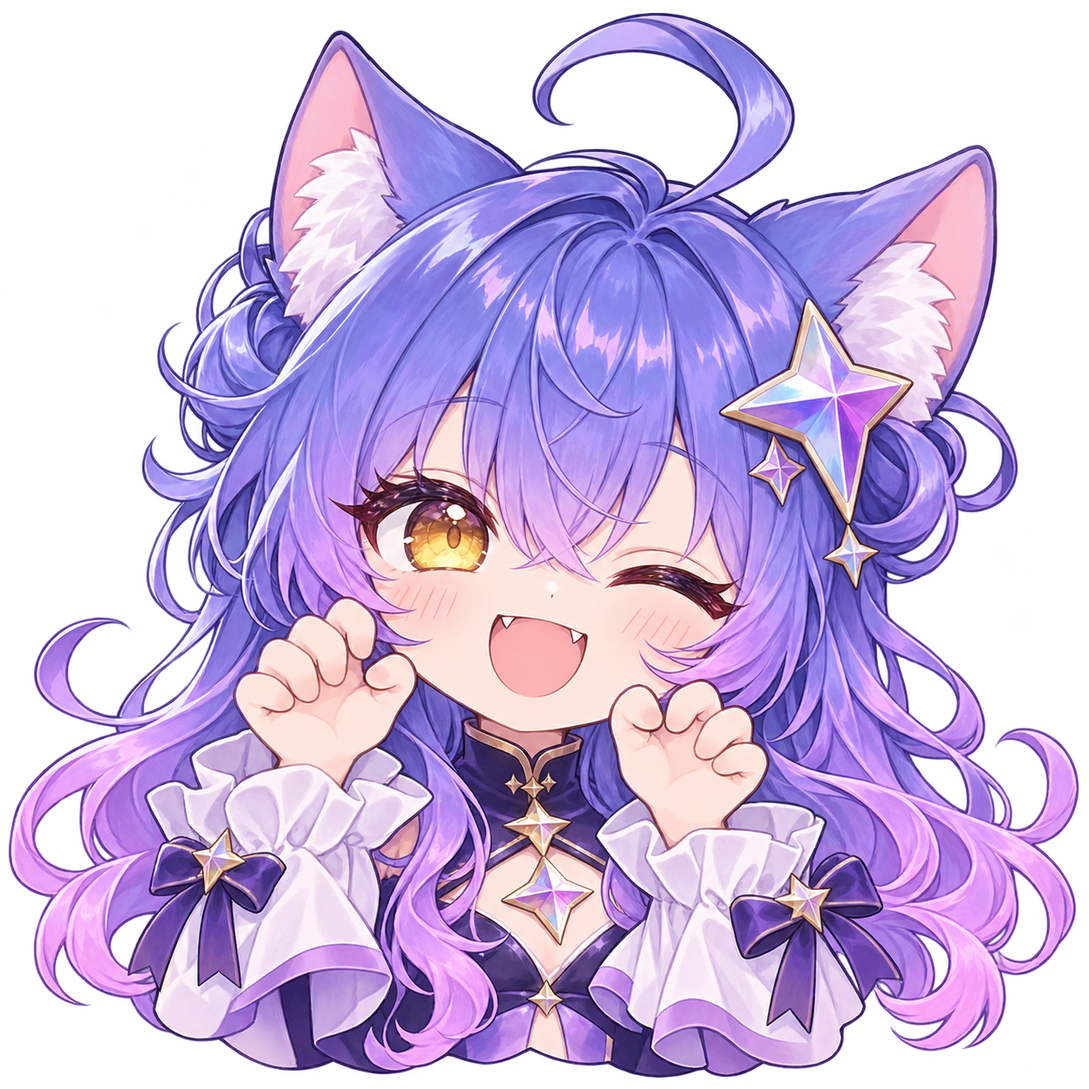
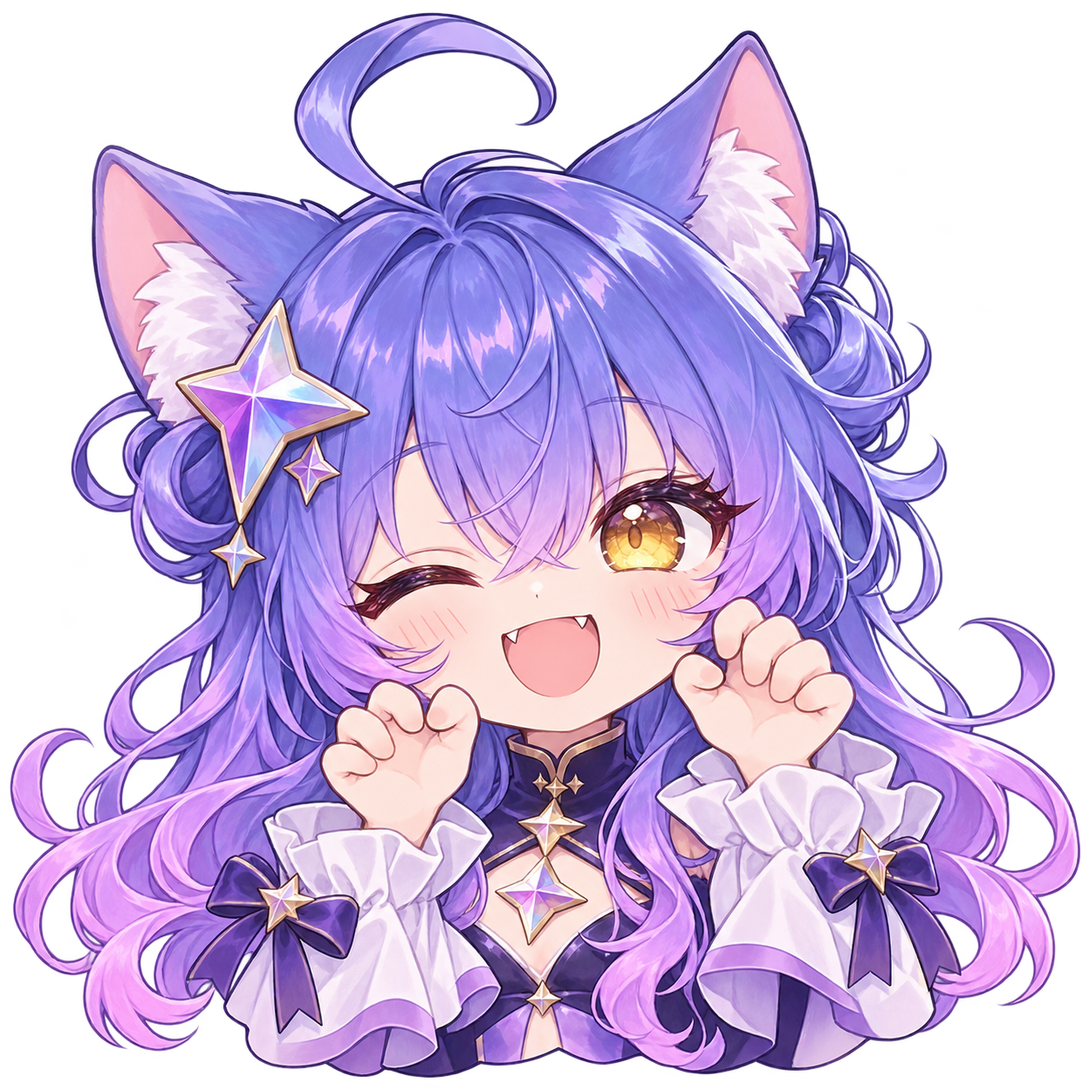
feat(T026): 优化 Gemini 界面排版、角色舞台与形象对称方向

diff --git a/src/renderer/settings.ts b/src/renderer/settings.ts
@@ -6,7 +6,7 @@ import type { AppSettings, AppState, DesktopApi, PetPersona, SoundSlot, Completi
 import { validatePhraseDisplays } from '../shared/phrases';
 import { decimalSetting, money, updateMoney } from './format';
 import { localTime, quotaStatus, renderQuota } from './quota';
-import { geminiStatus, renderGeminiQuota } from './gemini-quota';
+import { geminiStatus, geminiStatusChip, renderGeminiQuota } from './gemini-quota';
 import { COMPLETION_SOURCES, petPersona } from '../shared/bubble-settings';
 import { APP_VERSION, GEMINI_PETS, GPT_DRAGON_PET, GPT_PET } from '../shared/defaults';
 import { PersonaSoundPlayer } from './sounds';
@@ -47,7 +47,7 @@ export function mountSettings(root: HTMLElement, api: DesktopApi, initial: AppSt
         <form id="settings-form">
           <section id="appearance" class="section"><div class="section-heading"><h2>角色造型</h2><span class="section-note">切换角色与图片立即生效</span></div>
             <div class="panel"><div class="pet-selector" role="group" aria-label="切换内置桌宠"><button id="select-deepseek" type="button" class="pet-option" aria-pressed="false"><img src="./assets/whale.png" alt=""><span>DeepSeek 小鲸鱼<small>账户余额与消费</small></span></button><button id="select-gpt" type="button" class="pet-option" aria-pressed="false"><img src="./assets/gpt.png" alt=""><span>GPT 小伙伴<small>Codex 额度与重置时间</small></span></button><button id="select-gemini" type="button" class="pet-option" aria-pressed="false"><img src="${GEMINI_PETS.classic.url}" alt=""><span>Gemini<small>Argon 与 Gemini 剩余额度</small></span></button></div>
-            <div id="gemini-appearance-options" hidden><div class="pet-selector" role="group" aria-label="Gemini 造型">${(['classic', 'sketch'] as const).map(id => `<button id="gemini-${id}" type="button" class="pet-option"><img src="${GEMINI_PETS[id].url}" alt=""><span>${id === 'classic' ? '经典' : '手绘'}</span></button>`).join('')}</div></div>
+            <div id="gemini-appearance-options" hidden><p class="hint">两种 Gemini 造型共用同一份额度、陪伴短句、音效与气泡设置。</p><div class="pet-selector" role="group" aria-label="Gemini 造型">${(['classic', 'sketch'] as const).map(id => `<button id="gemini-${id}" type="button" class="pet-option" aria-pressed="false"><img src="${GEMINI_PETS[id].url}" alt=""><span>${id === 'classic' ? '经典<small>星光紫经典造型</small>' : '手绘<small>彩铅手绘风造型</small>'}</span></button>`).join('')}</div></div>
             <div id="gpt-appearance-options"><p class="hint">GPT 造型切换不影响 Codex 额度，两种内置造型共用同一份额度。</p><div class="pet-selector" role="group" aria-label="GPT 造型"><button id="appearance-classic" type="button" class="pet-option" aria-pressed="false"><img src="${GPT_PET.url}" alt=""><span>原版 GPT<small>薄荷绿小伙伴</small></span></button><button id="appearance-dragon" type="button" class="pet-option" aria-pressed="false"><img src="${GPT_DRAGON_PET.url}" alt=""><span>GPT 白龙<small>淡紫色小伙伴</small></span></button><button id="appearance-custom" type="button" class="pet-option" aria-pressed="false"><span>自定义图片<small>保留已导入的造型</small></span></button></div></div>
             <div class="pet-preview-row"><div class="pet-preview"><img id="pet-preview-image" alt="当前桌宠角色"></div><div><h3 id="pet-name"></h3><p>点击桌宠查看余额或剩余额度，拖动它换个位置。<br>右键打开快捷菜单。</p><div class="button-row"><button id="choose-pet" type="button" class="secondary-button">换一张图片</button><button id="reset-pet" type="button" class="text-button">恢复当前角色</button></div></div></div>
             <div class="setting-row"><label for="pet-mode">桌宠模式<small>所有桌宠共用；保存后生效。简洁模式只保留剩余额度、完成及问答提醒，原设置仍保留。</small></label><select id="pet-mode" name="petMode" form="settings-form"><option value="full">完整模式</option><option value="simple">简洁模式</option></select></div><div class="setting-row"><label for="scale">角色大小<small>屏幕空间不足时自动缩小，保留所选比例</small></label><div class="range-control"><input id="scale" name="scale" type="range" min="0.5" max="2" step="0.05"><output id="scale-output" for="scale"></output></div></div>
@@ -94,7 +94,8 @@ export function mountSettings(root: HTMLElement, api: DesktopApi, initial: AppSt
     const section = document.createElement('section'); section.id = id; section.className = 'section'; section.innerHTML = `<div class="section-heading"><h2>${title}</h2></div><div class="panel">${html}</div>`; content.append(section); return section;
   };
   for (const id of ['overview', 'codex', 'appearance', 'reminders', 'records']) content.append(element(id));
-  makePage('gemini', 'Gemini 剩余额度', '<div id="gemini-quotas"></div><div class="codex-actions"><p id="gemini-status" class="hint" role="status"></p><button id="refresh-gemini" class="secondary-button" type="button">刷新额度</button></div>');
+  const geminiSection = makePage('gemini', 'Gemini 剩余额度', '<div id="gemini-quotas"></div><div class="codex-actions"><p id="gemini-status" class="hint" role="status"></p><div class="button-row"><button id="refresh-gemini" class="secondary-button" type="button">↻ 刷新额度</button></div></div><p class="hint">优先读取本机运行中的 Antigravity 实时额度；客户端关闭时回退到已登录的 agy CLI。</p>');
+  geminiSection.querySelector('.section-heading')!.insertAdjacentHTML('beforeend', '<span id="gemini-status-chip" class="status-chip"></span>');
   const behavior = makePage('behavior', '桌面行为', '<p class="page-description">让小伙伴按你的习惯，留在桌面上。</p>');
   const sound = makePage('sound', '声音', '<p class="page-description">给每次轻轻按下，留一点回应。</p>');
   makePage('bubbles', '气泡与提示', '<div id="bubble-editor"></div>');
@@ -127,10 +128,10 @@ export function mountSettings(root: HTMLElement, api: DesktopApi, initial: AppSt
     return nodes;
   };
   const geminiControls = document.createElement('div');
-  geminiControls.innerHTML = `<label class="toggle-label"><span>完成时提醒</span><input name="geminiCompletionEnabled" type="checkbox"></label>
-    <label class="toggle-label"><span>需要回应时提醒</span><input name="attention-antigravity" type="checkbox"></label>
-    <label class="toggle-label"><span>接入 Antigravity 完成 hook</span><input name="geminiHookEnabled" type="checkbox"></label>
-    <p id="gemini-integration-status" class="hint" role="status"></p><p class="hint">保存后生效。启用完成 hook 后请在 Antigravity 中重新加载会话；关闭接入会移除 DesktopPet 的条目。</p>
+  geminiControls.innerHTML = `<label class="toggle-label"><span>需要回应时提醒</span><input name="attention-antigravity" type="checkbox"></label>
+    <label class="toggle-label"><span>完成时提醒</span><input name="geminiCompletionEnabled" type="checkbox"></label>
+    <label class="toggle-label"><span>接入 Antigravity 完成 hook<small>保存后写入全局 hooks.json；关闭接入只移除 DesktopPet 的条目。</small></span><input name="geminiHookEnabled" type="checkbox"></label>
+    <p id="gemini-integration-status" class="hint" role="status"></p><p class="hint">等待回应只读扫描本机会话摘要；启用完成 hook 后请在 Antigravity 中重新加载会话。</p>
     <button type="button" class="text-button" data-edit-completion="antigravity">编辑提示</button>`;
   const integrations = [
     { source: 'antigravity', title: 'Gemini · Antigravity', description: '桌面 App、IDE 和 agy CLI', nodes: [...geminiControls.children] },
@@ -176,10 +177,10 @@ export function mountSettings(root: HTMLElement, api: DesktopApi, initial: AppSt
   sound.querySelector('.panel')!.insertAdjacentHTML('beforeend', '<div class="related-settings"><h3>对话完成音效</h3><p>每个应用的完成音效可独立开关、调节音量和更换音频。</p><div class="button-row"><button type="button" class="secondary-button" data-edit-sound="codex">Codex 音效 ↗</button><button type="button" class="secondary-button" data-edit-sound="chatgpt-work">Work 音效 ↗</button><button type="button" class="secondary-button" data-edit-sound="deepseek-harness">DSH 音效 ↗</button><button type="button" class="secondary-button" data-edit-sound="antigravity">Gemini 音效 ↗</button></div></div>');
   element('overview').insertAdjacentHTML('beforeend', '<div class="related-links"><button type="button" class="text-button" data-settings-page="records">查看消费记录 →</button><button type="button" class="text-button" data-settings-page="reminders">设置余额提醒 →</button></div>');
   element('bubbles').insertAdjacentHTML('afterbegin', '<div class="related-links bubble-links"><span>提醒来源与声音开关</span><button type="button" class="text-button" data-settings-page="completion">对话提醒 →</button><button type="button" class="text-button" data-settings-page="sound">声音设置 →</button></div>');
-  makePage('version', '关于 DesktopPet', `<div class="about-hero"><span class="brand-mark">≈</span><div><h3>DesktopPet <span class="version-chip">v${APP_VERSION}</span></h3><p>让桌面多一点陪伴。</p></div></div><p>小鲸鱼陪你关注余额，GPT 小伙伴与白龙陪你照顾编程节奏。</p><p class="hint">原有账户、图片、记录和桌面位置会继续保留。</p><div class="about-detail">项目仓库 · Forest-Wood / DesktopPlay<br>代码许可证 · MIT</div>`);
+  makePage('version', '关于 DesktopPet', `<div class="about-hero"><span class="brand-mark">≈</span><div><h3>DesktopPet <span class="version-chip">v${APP_VERSION}</span></h3><p>让桌面多一点陪伴。</p></div></div><p>小鲸鱼陪你关注余额，GPT 小伙伴与白龙陪你照顾编程节奏，Gemini 星猫陪你留意 Antigravity 额度与回应。</p><p class="hint">原有账户、图片、记录和桌面位置会继续保留。</p><div class="about-detail">项目仓库 · Forest-Wood / DesktopPlay<br>代码许可证 · MIT</div>`);
   element('version').querySelector('.panel')!.insertAdjacentHTML('beforeend', `<section class="app-update"><h3>软件更新</h3><p id="update-mode" class="hint"></p><p id="update-status" role="status"></p><p id="update-checked" class="hint"></p><progress id="update-progress" max="100" value="0" hidden></progress><p id="update-bytes" class="hint"></p><p id="update-error" class="sound-warning" role="alert"></p><section id="update-announcement" aria-labelledby="update-notes-title" hidden><h4 id="update-notes-title">更新公告</h4><p id="update-notes-version" class="hint"></p><pre id="update-notes" class="update-notes"></pre></section><div class="button-row"><button id="update-check" type="button" class="secondary-button">检查更新</button><button id="update-download" type="button" hidden>下载更新</button><button id="update-cancel" type="button" class="secondary-button" hidden>取消下载</button><button id="update-install" type="button" hidden>重启并更新</button></div><label class="toggle-label"><span>自动检查更新<small>启动后自动检查，之后每 6 小时检查；下载和重启由你决定。</small></span><input id="auto-check-updates" name="autoCheckUpdates" type="checkbox"></label><div id="update-dirty-dialog" class="update-dirty-dialog" hidden><p>有未保存的设置，请先保存，或选择放弃草稿后重启更新。</p><div class="button-row"><button id="update-save-first" type="button">保存设置</button><button id="update-discard" class="secondary-button" type="button">放弃草稿并更新</button><button id="update-keep-editing" class="text-button" type="button">继续编辑</button></div></div></section>`);
-  makePage('guide', '使用说明', '<div class="guide-list"><article><h3>轻点一下，看看近况</h3><p>点击桌宠翻阅余额、额度与陪伴短句；点击气泡关闭按钮收起。</p></article><article><h3>拖到喜欢的位置</h3><p>按住桌宠拖动，可在桌面行为中启用贴边吸附。靠近屏幕上方时，小伙伴会倒挂陪着你。</p></article><article><h3>连接你的账户</h3><p>DeepSeek 使用 API Key 查询余额；Codex 读取本机登录状态与官方返回的额度。没有返回的窗口显示“未提供”。</p></article><article><h3>保存你的小习惯</h3><p>切换页面会保留草稿。完成后点击底部“保存设置”。角色与账户操作即时生效。</p></article></div>');
-  makePage('licenses', '素材与许可证', '<div class="guide-list"><article><h3>代码与开源来源</h3><p>代码采用 MIT 许可证。部分代码参考 MeteorNOX / DeepSeek-Balance-Whale-Widget，并保留上游署名与许可证。</p></article><article><h3>小鲸鱼与音效</h3><p>源自上游项目，维护者确认获得独立分发授权。美术与声音素材不随代码转为 MIT 授权。</p></article><article><h3>GPT 与白龙</h3><p>根据用户参考生成的非官方二创形象，不代表 OpenAI 的官方吉祥物、合作或认可。第三方商标权归原权利人。</p></article><article><h3>完整声明</h3><p>随应用分发的 LICENSE 与 THIRD_PARTY_NOTICES.md 包含完整许可证、素材来源与授权边界。</p></article></div>');
+  makePage('guide', '使用说明', '<div class="guide-list"><article><h3>轻点一下，看看近况</h3><p>点击桌宠翻阅余额、额度与陪伴短句；点击气泡关闭按钮收起。</p></article><article><h3>拖到喜欢的位置</h3><p>按住桌宠拖动，可在桌面行为中启用贴边吸附。靠近屏幕上方时，小伙伴会倒挂陪着你。</p></article><article><h3>连接你的账户</h3><p>DeepSeek 使用 API Key 查询余额；Codex 与 Gemini 读取本机登录状态与官方返回的额度。没有返回的窗口显示“未提供”。</p></article><article><h3>保存你的小习惯</h3><p>切换页面会保留草稿。完成后点击底部“保存设置”。角色与账户操作即时生效。</p></article></div>');
+  makePage('licenses', '素材与许可证', '<div class="guide-list"><article><h3>代码与开源来源</h3><p>代码采用 MIT 许可证。部分代码参考 MeteorNOX / DeepSeek-Balance-Whale-Widget，并保留上游署名与许可证。</p></article><article><h3>小鲸鱼与音效</h3><p>源自上游项目，维护者确认获得独立分发授权。美术与声音素材不随代码转为 MIT 授权。</p></article><article><h3>GPT、白龙与 Gemini</h3><p>根据用户参考与提供素材制作的非官方形象，不代表 OpenAI 或 Google 的官方吉祥物、合作或认可。第三方商标权归原权利人。</p></article><article><h3>完整声明</h3><p>随应用分发的 LICENSE 与 THIRD_PARTY_NOTICES.md 包含完整许可证、素材来源与授权边界。</p></article></div>');
   makePage('uninstall', '卸载 DesktopPet', '<p class="page-description">移除程序，并按你的选择清理本机数据。</p><dl class="uninstall-paths"><dt>运行模式</dt><dd id="uninstall-kind">正在检查…</dd><dt>程序位置</dt><dd id="uninstall-program">正在检查…</dd><dt>用户数据位置</dt><dd id="uninstall-data">正在检查…</dd></dl><label class="toggle-label uninstall-delete-label" for="uninstall-remove-data"><span>同时删除本机用户数据<small>默认开启，可关闭以保留设置与素材。</small></span><input id="uninstall-remove-data" type="checkbox" checked></label><p class="hint">清理范围：API Key、设置、余额与消费记录、自定义图片、自定义音频和缓存。同一用户运行的安装版与免安装版可能共用这些数据，清理会同时影响它们。</p><p id="uninstall-reason" class="sound-warning" role="status"></p><button id="uninstall-start" class="uninstall-button" type="button" disabled>卸载 DesktopPet</button><p class="hint">点击后会显示系统确认对话框，取消即可返回。</p>');
   const saveBar = root.querySelector<HTMLElement>('.save-bar')!;
   const setSaveHint = (message: string) => { saveBar.dataset.dirty = String(dirty); element('save-hint').textContent = message; };
@@ -388,11 +389,15 @@ export function mountSettings(root: HTMLElement, api: DesktopApi, initial: AppSt
     renderSounds(); bubbleEditor.update(next);
     root.classList.toggle('gpt-theme', state.activePet === 'gpt');
     root.classList.toggle('dragon-theme', state.activePet === 'gpt' && state.gptAppearance === 'dragon');
+    root.classList.toggle('gemini-theme', state.activePet === 'gemini');
     for (const id of ['deepseek', 'gpt', 'gemini'] as const) element(`select-${id}`).setAttribute('aria-pressed', String(state.activePet === id));
     element('gemini-appearance-options').hidden = state.activePet !== 'gemini';
     element('choose-pet').hidden = state.activePet === 'gemini';
     for (const id of ['classic', 'sketch'] as const) element('gemini-' + id).setAttribute('aria-pressed', String(state.geminiAppearance === id));
-    renderGeminiQuota(element('gemini-quotas'), state.geminiQuota);
+    renderGeminiQuota(element('gemini-quotas'), state.geminiQuota, false, false);
+    const geminiChip = geminiStatusChip(state.geminiQuota, demo);
+    element('gemini-status-chip').textContent = geminiChip.text;
+    element('gemini-status-chip').dataset.status = geminiChip.status;
     element('gemini-status').textContent = geminiStatus(state.geminiQuota, demo);
     element<HTMLButtonElement>('refresh-gemini').disabled = state.geminiQuota.status === 'loading';
     element('gemini-integration-status').textContent = state.geminiIntegration;
@@ -515,6 +520,6 @@ export function mountSettings(root: HTMLElement, api: DesktopApi, initial: AppSt
   const periodTimer = setInterval(refreshTime, 60000);
   update(initial); fill(initial.settings);
   const geminiTimer = setInterval(() => { if (!element('gemini').hidden && state.activePet !== 'gemini') void api.refreshGeminiQuota().catch(() => {}); }, 60000);
-  const countdown = setInterval(() => { renderQuota(element('codex-quotas'), state.codex, false, demo); element('codex-status').textContent = quotaStatus(state.codex, demo); }, 30000);
+  const countdown = setInterval(() => { renderQuota(element('codex-quotas'), state.codex, false, demo); element('codex-status').textContent = quotaStatus(state.codex, demo); renderGeminiQuota(element('gemini-quotas'), state.geminiQuota, false, false); }, 30000);
   return { update, dispose: () => { disposed = true; clearInterval(periodTimer); document.removeEventListener('visibilitychange', refreshTime); window.removeEventListener('focus', refreshTime); stopSettingsPage(); preview.dispose(); bubbleEditor.dispose(); clearInterval(geminiTimer); clearInterval(countdown); } };
 }

diff --git a/src/renderer/settings-workspace.css b/src/renderer/settings-workspace.css
@@ -16,6 +16,7 @@
 }
 .settings-view #app.gpt-theme { --companion-tint: #e4f2eb; --companion-ring: #d2e8dd; }
 .settings-view #app.dragon-theme { --companion-tint: #efebf5; --companion-ring: #e1d9ed; }
+.settings-view #app.gemini-theme { --companion-tint: #f2ecfb; --companion-ring: #dfd3f2; }
 .settings-view .settings-shell { grid-template-columns: 220px minmax(0, 1fr); }
 .settings-view .sidebar {
   display: flex;
@@ -113,6 +114,15 @@
 .settings-view #codex .quota-window { padding: 18px; border-radius: 12px; background: #f7f9f6; }
 .settings-view #codex .quota-percentage { letter-spacing: -1px; }
 .settings-view #codex .quota-plan-badge { font-size: 10px; }
+.settings-view #gemini-quotas { display: grid; grid-template-columns: repeat(3, minmax(0, 1fr)); gap: 12px; }
+.settings-view #gemini-quotas .gemini-quota-row { display: flex; flex-direction: column; align-items: stretch; gap: 4px; padding: 18px; border: 1px solid var(--line); border-radius: 12px; background: #f7f9f6; }
+.settings-view #gemini-quotas .gemini-quota-row > span { font-size: 12px; color: var(--muted); }
+.settings-view #gemini-quotas .gemini-quota-row > strong { display: block; align-self: flex-start; font-size: 32px; line-height: 1.2; letter-spacing: -1px; color: var(--ink); margin: 2px 0 4px; }
+.settings-view #gemini-quotas .gemini-quota-row[data-state=shared] > strong,
+.settings-view #gemini-quotas .gemini-quota-row[data-state=missing] > strong { font-size: 17px; letter-spacing: 0; line-height: 1.4; margin: 7px 0; color: var(--muted); }
+.settings-view #gemini-quotas .gemini-quota-row[data-state=empty] > strong { color: var(--muted); }
+.settings-view #gemini-quotas .gemini-quota-row > progress { width: 100%; height: 6px; accent-color: var(--accent); margin: 2px 0 6px; }
+.settings-view #gemini-quotas .gemini-quota-row > small { margin-top: auto; font-size: 11px; line-height: 1.55; color: var(--muted); opacity: 1; }
 
 .settings-view .related-links { display: flex; align-items: center; flex-wrap: wrap; gap: 8px; margin-top: 10px; }
 .settings-view .related-links .text-button { padding-left: 0; margin-right: 12px; color: var(--accent); }
@@ -158,11 +168,17 @@
 .settings-view .pet-option { position: relative; background: #fff; border-radius: 12px; }
 .settings-view .pet-option[aria-pressed=true] { background: #f0f5ee; border-color: #6c9275; box-shadow: inset 0 0 0 1px #6c9275; }
 .settings-view .pet-option[aria-pressed=true]::after { content: '已选'; position: absolute; top: 6px; right: 7px; color: var(--accent); font-size: 8px; }
+.settings-view #appearance > .panel > .pet-selector { grid-template-columns: repeat(3, minmax(0, 1fr)); }
 .settings-view #appearance > .panel > .pet-selector .pet-option { min-height: 78px; padding: 14px 12px; }
 .settings-view #appearance > .panel > .pet-selector .pet-option img { width: 49px; height: 49px; }
-.settings-view #gpt-appearance-options .pet-selector { gap: 10px; grid-template-columns: repeat(auto-fit, minmax(145px, 1fr)); }
-.settings-view #gpt-appearance-options .pet-option { min-height: 75px; }
-.settings-view #gpt-appearance-options .hint { font-size: 10px !important; }
+.settings-view #gpt-appearance-options .pet-selector,
+.settings-view #gemini-appearance-options .pet-selector { gap: 10px; grid-template-columns: repeat(auto-fit, minmax(145px, 1fr)); margin-top: 12px; }
+.settings-view #gpt-appearance-options .pet-option,
+.settings-view #gemini-appearance-options .pet-option { min-height: 75px; padding: 10px; gap: 10px; }
+.settings-view #gpt-appearance-options .pet-option img,
+.settings-view #gemini-appearance-options .pet-option img { width: 52px; height: 60px; }
+.settings-view #gpt-appearance-options .hint,
+.settings-view #gemini-appearance-options .hint { font-size: 10px !important; margin-top: 0 !important; }
 .settings-view #pet-mode { padding: 10px 12px; border-radius: 10px; font-size: 12px; background: #f8faf7; }
 .settings-view .setting-row > label { font-size: 12px; min-width: 0; }
 .settings-view .setting-row small { font-size: 10px; line-height: 1.8; max-width: 360px; }
@@ -244,7 +260,7 @@
   .settings-view .sidebar nav button { gap: 7px; padding: 11px 8px; font-size: 10px; }
   .settings-view .sidebar nav button[aria-current=page]::after { display: none; }
   .settings-view .settings-main { padding-inline: 14px; }
-  .settings-view .balance-grid { grid-template-columns: 1fr; }
+  .settings-view .balance-grid, .settings-view #gemini-quotas, .settings-view #appearance > .panel > .pet-selector { grid-template-columns: 1fr; }
   .settings-view .page-tabs { flex-wrap: wrap; gap: 12px; }
   .settings-view #appearance .pet-preview-row { flex-direction: column; }
   .settings-view .save-bar { margin-inline: -14px; padding-inline: 17px; }

diff --git a/src/renderer/gemini-quota.ts b/src/renderer/gemini-quota.ts
@@ -1,6 +1,6 @@
 import { GEMINI_WINDOWS } from '../shared/gemini';
 import type { GeminiQuotaState } from '../shared/types';
-import { localTime, remainingLabel } from './quota';
+import { localTime, remainingLabel, resetCountdown } from './quota';
 
 export function geminiStatus(state: GeminiQuotaState, demo: boolean) {
   const updated = state.updatedAt ? '上次更新 ' + localTime(state.updatedAt) : '';
@@ -8,19 +8,48 @@ export function geminiStatus(state: GeminiQuotaState, demo: boolean) {
   return [text, updated].filter(Boolean).join(' · ');
 }
 
-export function renderGeminiQuota(root: HTMLElement, state: GeminiQuotaState, simple = false) {
+export function geminiStatusChip(state: GeminiQuotaState, demo: boolean): { text: string; status: string } {
+  if (demo) return { text: '演示额度', status: 'ready' };
+  if (state.status === 'loading') return { text: '正在刷新', status: 'loading' };
+  if (state.status === 'error') return { text: '读取异常', status: 'error' };
+  if (state.updatedAt) return { text: '已连接 Antigravity', status: 'ready' };
+  return { text: '尚未读取', status: 'idle' };
+}
+
+export function renderGeminiQuota(root: HTMLElement, state: GeminiQuotaState, simple = false, compact = true) {
   root.replaceChildren();
   for (const [id, label] of GEMINI_WINDOWS) {
     const value = state.windows[id], row = document.createElement('div');
+    const remaining = !value?.shared && value?.remainingPercent != null && Number.isFinite(value.remainingPercent)
+      ? Math.max(0, Math.min(100, value.remainingPercent)) : null;
     row.className = 'gemini-quota-row';
+    row.dataset.state = value?.shared ? 'shared' : remaining === null ? 'missing' : remaining === 0 ? 'empty' : 'ready';
     const title = document.createElement('span'), percent = document.createElement('strong');
     title.textContent = label;
-    percent.textContent = value?.shared ? '与 Gemini 共用' : value?.remainingPercent != null ? remainingLabel(value.remainingPercent) : '未提供';
+    percent.textContent = value?.shared ? '与 Gemini 共用' : remaining !== null ? remainingLabel(remaining) : '未提供';
     row.append(title, percent);
-    if (!simple && value && !value.shared) {
-      const reset = document.createElement('small');
-      reset.textContent = value.resetsAt ? '重置 ' + localTime(value.resetsAt) + (Date.parse(value.resetsAt) <= Date.now() ? ' · 待刷新' : '') : '重置时间未提供';
-      row.append(reset);
+    if (!compact && remaining !== null) {
+      const bar = document.createElement('progress');
+      bar.max = 100;
+      bar.value = remaining;
+      bar.setAttribute('aria-label', `${label}剩余额度`);
+      row.append(bar);
+    }
+    if (!simple) {
+      if (value && !value.shared) {
+        const reset = document.createElement('small');
+        const expired = value.resetsAt ? Date.parse(value.resetsAt) <= Date.now() : false;
+        reset.textContent = value.resetsAt
+          ? compact
+            ? '重置 ' + localTime(value.resetsAt) + (expired ? ' · 待刷新' : '')
+            : `${resetCountdown(value.resetsAt)} · 重置 ${localTime(value.resetsAt)}`
+          : '重置时间未提供';
+        row.append(reset);
+      } else if (!compact) {
+        const reset = document.createElement('small');
+        reset.textContent = value?.shared ? '与 Gemini 周额度共用同一额度池' : state.status === 'loading' ? '正在读取额度与重置时间…' : '尚未获取该窗口的额度数据';
+        row.append(reset);
+      }
     }
     root.append(row);
   }

diff --git a/src/renderer/quota.css b/src/renderer/quota.css
@@ -24,12 +24,19 @@
 .quota-compact .quota-percentage { font-size: 30px; line-height: 1.15; color: inherit; }
 .quota-compact .quota-countdown { font-size: 8.5px; line-height: 1.35; margin: 0; color: inherit; white-space: nowrap; font-variant-numeric: tabular-nums; }
 .quota-compact .quota-plan-badge { float: left; font-size: 9px; line-height: 12px; padding: 1px 6px; margin: 0 6px 1px 0; color: var(--bubble-ink, inherit); background: color-mix(in srgb, var(--bubble-ink, #378a76) 10%, transparent); }
-.gemini-quota-row { display: grid; grid-template-columns: 1fr auto; align-items: baseline; gap: 2px 8px; padding: 8px 0; border-bottom: 1px solid currentColor; }
+.gemini-quota-row { display: grid; grid-template-columns: minmax(0, 1fr) auto; align-items: center; gap: 1px 8px; padding: 6px 0; border-bottom: 1px solid var(--border, #d8e2de); }
 .gemini-quota-row:last-child { border-bottom: none; }
-.gemini-quota-row strong { font-variant-numeric: tabular-nums; }
-.gemini-quota-row small { grid-column: 1 / -1; opacity: .8; }
-.bubble-quota .gemini-quota-row { font-size: 11px; line-height: 1.25; padding: 2px 0; border: 0; }
-.bubble-quota .gemini-quota-row small { font-size: 9px; }
-.simple-mode .bubble-quota .gemini-quota-row { padding: 5px 0; font-size: 12px; }
-.simple-mode .gemini-quota-row + .gemini-quota-row { border-top: 1px solid color-mix(in srgb, var(--bubble-ink) 15%, transparent); }
-.simple-mode .gemini-quota-row strong { font-size: 15px; }
+.gemini-quota-row > span { grid-column: 1; min-width: 0; }
+.gemini-quota-row > strong { grid-column: 2; font-variant-numeric: tabular-nums; white-space: nowrap; }
+.gemini-quota-row > small { grid-column: 1; opacity: .76; }
+.bubble-quota .gemini-quota-row:has(small) > strong { grid-row: 1 / span 2; align-self: center; }
+.bubble-quota .gemini-quota-row { font-size: calc(11px * var(--bubble-font-scale, 1)); line-height: 1.25; padding: 4px 0; border-bottom: 1px solid color-mix(in srgb, var(--bubble-ink) 14%, transparent); }
+.bubble-quota .gemini-quota-row:last-child { border-bottom: 0; }
+.bubble-quota .gemini-quota-row > span { font-weight: 500; }
+.bubble-quota .gemini-quota-row > strong { font-size: calc(18px * var(--bubble-font-scale, 1)); line-height: 1.05; letter-spacing: -.5px; font-weight: 700; }
+.bubble-quota .gemini-quota-row[data-state="shared"] > strong, .bubble-quota .gemini-quota-row[data-state="missing"] > strong { font-size: calc(10px * var(--bubble-font-scale, 1)); font-weight: 600; letter-spacing: 0; padding: 2px 6px; border-radius: 99px; background: color-mix(in srgb, var(--bubble-ink) 11%, transparent); }
+.bubble-quota .gemini-quota-row[data-state="empty"] > strong { opacity: .58; }
+.bubble-quota .gemini-quota-row > small { font-size: calc(9px * var(--bubble-font-scale, 1)); line-height: 1.2; }
+.simple-mode .bubble-quota .gemini-quota-row { padding: 6px 0; font-size: calc(11.5px * var(--bubble-font-scale, 1)); }
+.simple-mode .gemini-quota-row > strong { font-size: calc(19px * var(--bubble-font-scale, 1)); }
+.simple-mode .gemini-quota-row[data-state="shared"] > strong, .simple-mode .gemini-quota-row[data-state="missing"] > strong { font-size: calc(11px * var(--bubble-font-scale, 1)); }

diff --git a/tests/smoke/gemini.spec.ts b/tests/smoke/gemini.spec.ts
@@ -28,16 +28,24 @@ test('Gemini skins, quota rows, Stop relay and saved profile', async () => {
     const settings = app.windows().find(w => w !== pet) ?? await app.waitForEvent('window');
     await settings.locator('[data-category="pet"]').click();
     await settings.locator('#select-gemini').click();
+    await expect(settings.locator('#app')).toHaveClass(/gemini-theme/);
+    await expect(pet.locator('.pet-canvas')).toHaveClass(/gemini-theme/);
     await expect(pet.locator('.pet-image')).toHaveAttribute('src', /gemini-classic.png/);
     await expect(pet.locator('.pet-image')).toHaveJSProperty('naturalWidth',1254);
     await pet.screenshot({ path: path.join(profile, 'gemini-classic.png') });
     await settings.locator('#gemini-sketch').click();
     await expect(pet.locator('.pet-image')).toHaveAttribute('src', /gemini-sketch.png/);
+    await settings.screenshot({ path: path.join(profile, 'gemini-appearance.png') });
     await settings.locator('[data-category="account"]').click(); await settings.locator('#tab-gemini').click();
+    await expect(settings.locator('#gemini-status-chip')).toHaveText('已连接 Antigravity');
     await expect(settings.locator('#gemini-quotas strong')).toHaveText(['0%', '62%', '37%']);
-    await pet.evaluate(() => window.desktopPlay.updateSettings({petMode:'simple'}));
+    await expect(settings.locator('#gemini-quotas progress')).toHaveCount(3);
+    await settings.screenshot({ path: path.join(profile, 'gemini-settings.png') });
     await pet.locator('.pet-character').dispatchEvent('click');
     const rows = pet.locator('.gemini-quota-row');
+    expect(await rows.last().evaluate(el => el.getBoundingClientRect().bottom <= el.closest('.bubble-content')!.getBoundingClientRect().bottom + 1)).toBe(true);
+    await pet.screenshot({ path: path.join(profile, 'gemini-full.png') });
+    await pet.evaluate(() => window.desktopPlay.updateSettings({petMode:'simple'}));
     await expect(rows.locator('span')).toHaveText(['Argon 周额度', 'Gemini 周额度', 'Gemini 5 小时额度']);
     await expect(rows.locator('strong')).toHaveText(['0%', '62%', '37%']);
     expect(await rows.last().evaluate(el => el.getBoundingClientRect().bottom <= el.closest('.bubble-content')!.getBoundingClientRect().bottom + 1)).toBe(true);

diff --git a/tests/unit/renderer/quota.test.ts b/tests/unit/renderer/quota.test.ts
@@ -1,5 +1,7 @@
 import { describe, expect, it } from 'vitest';
 import { planLabel, quotaSlots, remainingLabel, quotaIsStale, resetCountdown, windowLabel, resetCreditExpiry, resetCreditsView } from '../../../src/renderer/quota';
+import { geminiStatus, geminiStatusChip } from '../../../src/renderer/gemini-quota';
+import { emptyGeminiQuota } from '../../../src/shared/gemini';
 import type { CodexQuotaState } from '../../../src/shared/types';
 
 describe('Codex quota time and availability', () => {
@@ -63,5 +65,14 @@ describe('Codex quota time and availability', () => {
     expect(quotaIsStale({ ...quota, status: 'error' }, now)).toBe(true);
     expect(quotaIsStale({ ...quota, updatedAt: null }, now)).toBe(true);
     expect(quotaIsStale({ ...quota, buckets: [] }, now)).toBe(false);
+  });
+  it('summarizes Gemini quota connection states for chip and status text', () => {
+    const idle = emptyGeminiQuota();
+    expect(geminiStatusChip(idle, false)).toEqual({ text: '尚未读取', status: 'idle' });
+    expect(geminiStatusChip(idle, true)).toEqual({ text: '演示额度', status: 'ready' });
+    expect(geminiStatusChip({ ...idle, status: 'loading' }, false)).toEqual({ text: '正在刷新', status: 'loading' });
+    expect(geminiStatusChip({ ...idle, status: 'error', error: '未发现客户端' }, false)).toEqual({ text: '读取异常', status: 'error' });
+    expect(geminiStatusChip({ ...idle, status: 'ready', updatedAt: '2026-11-19T09:00:00Z' }, false)).toEqual({ text: '已连接 Antigravity', status: 'ready' });
+    expect(geminiStatus({ ...idle, status: 'error', error: '未发现客户端', updatedAt: '2026-11-19T09:00:00Z' }, false)).toContain('未发现客户端 · 上次更新');
   });
 });

diff --git a/src/renderer/pet.ts b/src/renderer/pet.ts
@@ -175,7 +175,7 @@ export function mountPet(root: HTMLElement, api: DesktopApi, initial: AppState, 
     for (const [element, rect] of [[character, layout.character], [bubble, layout.bubble]] as const) { element.style.left = `${rect.x}px`; element.style.top = `${rect.y}px`; element.style.width = `${rect.width}px`; element.style.height = `${rect.height}px`; }
     image.style.left = `${layout.image.x}px`; image.style.top = `${layout.image.y}px`; image.style.width = `${layout.image.width}px`; image.style.height = `${layout.image.height}px`;
     canvas.classList.toggle('flipped', state.flipped); canvas.classList.toggle('vertical-flipped', state.verticalFlipped); canvas.classList.toggle('bubble-below', state.bubblePlacement === 'below');
-    canvas.classList.toggle('gpt-theme', state.activePet === 'gpt'); canvas.classList.toggle('dragon-theme', state.activePet === 'gpt' && state.gptAppearance === 'dragon'); image.src = state.pet.url;
+    canvas.classList.toggle('gpt-theme', state.activePet === 'gpt'); canvas.classList.toggle('dragon-theme', state.activePet === 'gpt' && state.gptAppearance === 'dragon'); canvas.classList.toggle('gemini-theme', state.activePet === 'gemini'); image.src = state.pet.url;
     character.setAttribute('aria-label', `${state.pet.name}，${simple() ? '点击查看剩余额度' : '点击切换用量、小报告和陪伴短句'}，拖动调整位置，右键打开菜单`);
     render();
     if (state.alert && state.alert.id !== lastAlertId) { lastAlertId = state.alert.id; if (!hidden && !simple()) pendingAlert = state.alert; }

diff --git a/tests/unit/assets.test.ts b/tests/unit/assets.test.ts
@@ -3,9 +3,14 @@ import { readFile, mkdtemp, rm, writeFile } from 'node:fs/promises';
 import path from 'node:path';
 import os from 'node:os';
 import { inspectImage, PetAssets } from '../../src/main/pet-assets';
+import { GEMINI_PETS } from '../../src/shared/defaults';
 describe('pet image validation', () => {
   it('reads the authorized bundled PNG', async () => {
     expect(inspectImage(await readFile('public/assets/whale.png'))).toEqual({ mime: 'image/png', width: 610, height: 610 });
+    expect(inspectImage(await readFile('public/assets/gemini-classic.png'))).toEqual({ mime: 'image/png', width: 1254, height: 1254 });
+    expect(inspectImage(await readFile('public/assets/gemini-sketch.png'))).toEqual({ mime: 'image/png', width: 1254, height: 1254 });
+    expect(GEMINI_PETS.classic.contentBounds).toEqual({ x: 1, y: 9, width: 1253, height: 1245, imageWidth: 1254, imageHeight: 1254 });
+    expect(GEMINI_PETS.sketch.contentBounds).toEqual({ x: 0, y: 0, width: 1254, height: 1254, imageWidth: 1254, imageHeight: 1254 });
   });
   it('rejects non-images and oversized dimensions', () => {
     expect(() => inspectImage(Buffer.from('<script>alert(1)</script>'))).toThrow();

diff --git a/src/shared/defaults.ts b/src/shared/defaults.ts
@@ -48,7 +48,7 @@ export const GPT_PET = { name: 'GPT 小伙伴', url: './assets/gpt.png', isCusto
 export const GPT_DRAGON_PET: PetAsset = { name: 'GPT 白龙', url: './assets/gpt-dragon-v2.png', isCustom: false,
   contentBounds: { x: 70, y: 57, width: 1120, height: 1129, imageWidth: 1254, imageHeight: 1254 } };
 export const GEMINI_PETS: Record<import('./types').GeminiAppearance, PetAsset> = {
-  classic: { name: 'Gemini · 经典', url: './assets/gemini-classic.png', isCustom: false, contentBounds: { x: 0, y: 9, width: 1253, height: 1245, imageWidth: 1254, imageHeight: 1254 } },
+  classic: { name: 'Gemini · 经典', url: './assets/gemini-classic.png', isCustom: false, contentBounds: { x: 1, y: 9, width: 1253, height: 1245, imageWidth: 1254, imageHeight: 1254 } },
   sketch: { name: 'Gemini · 手绘', url: './assets/gemini-sketch.png', isCustom: false, contentBounds: { x: 0, y: 0, width: 1254, height: 1254, imageWidth: 1254, imageHeight: 1254 } },
 };
 export const BUILTIN_PETS: Record<BuiltinPetId, PetAsset> = { deepseek: DEFAULT_PET, gpt: GPT_PET, gemini: GEMINI_PETS.classic };

diff --git a/src/renderer/styles.css b/src/renderer/styles.css
@@ -18,6 +18,7 @@
 .pet-canvas .pet-bubble{right:auto;bottom:auto;max-height:none;padding:9px 11px;isolation:isolate;border:2px solid var(--bubble-border);border-radius:23px;box-shadow:0 0 0 6px var(--bubble-ring),0 7px 10px #344b7c19;--bubble-ring:#dee5fc;--tail-x:188px;--tail-flip:1;--tail-y:1;--tail-rotate:8deg}
 .pet-canvas.gpt-theme .pet-bubble{--bubble-ring:#d9efe4}
 .pet-canvas.dragon-theme .pet-bubble{--bubble-bg:#f6f0ff;--bubble-border:#705392;--bubble-ink:#624480;--bubble-ring:#e9dcf8}
+.pet-canvas.gemini-theme .pet-bubble{--bubble-bg:#faf3ff;--bubble-border:#7b579e;--bubble-ink:#50356b;--bubble-ring:#ecdcfa}
 .pet-canvas.flipped .pet-bubble{--tail-x:28px;--tail-flip:-1}
 .pet-canvas.bubble-below .pet-bubble{--tail-y:-1;--tail-rotate:8deg}
 .pet-canvas .pet-bubble:before,.pet-canvas .pet-bubble:after{left:var(--tail-x);right:auto;top:calc(100% - 1px);width:18px;height:18px;clip-path:polygon(0 0,100% 0,100% 100%);transform:scale(var(--tail-flip),var(--tail-y)) rotate(var(--tail-rotate));transform-origin:center;z-index:-1}

diff --git a/docs/tasks/T026-gemini-ui.md b/docs/tasks/T026-gemini-ui.md
@@ -1,0 +1,40 @@
+# T026 · Gemini 界面与形象方向优化
+
+- 日期：2026-11-19（Asia/Shanghai）。
+- 需求：[R033](../REQUIREMENTS.md#r033gemini-界面与形象方向优化t026)。
+- 负责人：Antigravity。
+- 分支：`feat/T026-gemini-ui`；目标合并分支：`main`。
+- 工作目录：`D:\desktop1\DesktopPlay`。
+- 基准提交：`3a211f525bf304a535cdc0dfc59c903f15c55d9a`（已通过 [PR #28](https://github.com/Forest-Wood/DesktopPlay/pull/28) 合入远程 `main` `7dc840f7db71b0985629183bee9d252232695f17`）。
+- 结果提交：提交并推送 `origin/feat/T026-gemini-ui`，创建目标 `main` 的 PR 待审阅。
+- 已有未提交修改：开始任务前工作区干净；本任务共 16 个文件。
+- 状态：已实现并通过构建、单测与隔离 Electron 验证，已按授权提交、推送并创建 PR 待审查（未合并、不发布）。
+
+## 目标与范围
+
+参考 Impeccable 设计方法论（`critique`、`typeset`、`layout`、`colorize`、`polish` / `distill`）与项目界面规范 [DESIGN.md](../../DESIGN.md)，优化 Gemini 在桌宠气泡、设置页额度面板、角色舞台及对话提醒卡片中的视觉层级与一致性；同时按用户要求将内置的两张 Gemini 角色形象（经典与手绘）做左右对称翻转。
+
+修改范围：`public/assets/gemini-{classic,sketch}.png`、`src/shared/defaults.ts`、`src/renderer/gemini-quota.ts`、`src/renderer/quota.css`、`src/renderer/pet.ts`、`src/renderer/styles.css`、`src/renderer/settings.ts`、`src/renderer/settings-workspace.css`、测试 `tests/unit/assets.test.ts`、`tests/unit/renderer/quota.test.ts`、`tests/smoke/gemini.spec.ts` 及设计／状态文档。不新增第三方依赖、IPC 或持久化配置字段，保持应用版本 `2.0.0` 不变。
+
+## 重要决定与实现要点
+
+- **形象水平对称翻转与像素边界同步**：通过无损 PNG 扫描线翻转将 `public/assets/gemini-classic.png` 与 `public/assets/gemini-sketch.png`（均为 `1254 × 1254` RGBA）左右镜像，使默认屏幕右下角站位时角色朝向屏幕内侧与气泡，且左耳避开气泡尾巴位置。翻转后实测非透明像素包围盒：`classic` 为 `{ x: 1, y: 9, width: 1253, height: 1245 }`，`sketch` 仍为 `{ x: 0, y: 0, width: 1254, height: 1254 }`，已同步更新 `GEMINI_PETS`。
+- **桌宠气泡双列紧凑排版**：`.bubble-quota .gemini-quota-row` 采用左列标题 `<span>`（`11px`）与重置时间 `<small>`（`9px`）上下堆叠、右列剩余百分比 `<strong>`（完整模式 `18px`、简洁模式 `19px` 等宽粗体）跨两行垂直居中的双列网格；行间使用柔和细分割线，并对 `0%`（`data-state="empty"`）、共用池（`data-state="shared"`）与未提供（`data-state="missing"`）做语义样式区分。三行在固定 `236 × 192` 气泡的 `.bubble-content` 内完整显示，无纵向裁切。
+- **设置页 Gemini 额度三栏卡片化**：在 `#gemini .section-heading` 右侧增加 `#gemini-status-chip` 状态胶囊（显示 `已连接 Antigravity`、`正在刷新`、`读取异常`、`尚未读取` 或 `演示额度`）；`#gemini-quotas` 改为响应式三栏浅色卡片（`#f7f9f6`），左对齐展示 `32px` 剩余百分比、`<progress>` 进度条、倒计时与本地重置时间，并接入 30 秒倒计时刷新。
+- **星猫专属角色舞台与三栏选择器**：在 `pet.ts` 与 `settings.ts` 中同步切换 `gemini-theme`，在 `settings-workspace.css` 为 `#app.gemini-theme` 提供星光紫舞台色（`--companion-tint: #f2ecfb`、`--companion-ring: #dfd3f2`）。将“角色与模式”顶层选择器改为三栏并排网格（窄窗口自动折为单列），并为 Gemini 的经典／手绘两款造型补充共用说明与造型副标题。
+- **提醒卡片与关于说明补齐**：将“对话提醒”中 `Gemini · Antigravity` 卡片的开关顺序调整为左“需要回应时提醒”、右“完成时提醒”，与其余三张卡片对齐；在“关于 DesktopPet”、“使用说明”和“素材与许可证”页面补入 Gemini 相关说明。
+
+## 验证命令与结果
+
+| 检查命令 | 适用状态 | 结果与说明 |
+| --- | --- | --- |
+| `npm.cmd run build` | 工作区（基于 `3a211f5`） | 通过，含 `tsc --noEmit`、Vite 渲染层构建与 esbuild 主进程／预加载构建 |
+| `npx.cmd vitest run tests/unit/assets.test.ts tests/unit/renderer/quota.test.ts tests/unit/services/gemini.test.ts` | 工作区 | 3 个文件、22 项单测全部通过，覆盖翻转后 PNG 尺寸、非透明边界与 Gemini 状态胶囊 |
+| `npm.cmd test -- --reporter=dot` | 工作区（受限沙箱内） | 29 个文件中 26 个文件、319 项通过；3 个更新／清理测试文件共 5 项在受限沙箱内因 `%TEMP%` 创建 symlink/hardlink 返回 `EPERM` 失败 |
+| `npx.cmd playwright test tests/smoke/gemini.spec.ts --output=.tmp/T026-smoke-results` | 工作区（隔离 profile） | 首次在受限沙箱内因 AppContainer 无法启动 Electron（`exitCode=2147483651`）；在沙箱外使用隔离 `.tmp/T024-smoke-*` profile 运行通过（1/1）。截图审查发现设置页额度百分比因继承 `align-self: center` 水平居中，已将跨行居中限定于 `.bubble-quota` 并重跑验证通过 |
+| `git diff --check` | 工作区 | 通过 |
+
+## 下一步
+
+- 请用户审阅翻转后的两款 Gemini 形象、桌宠气泡（完整／简洁模式）及设置页视觉效果。
+- 待确认后按授权范围决定是否提交或合并。

diff --git a/DESIGN.md b/DESIGN.md
@@ -11,7 +11,7 @@ DesktopPet 是留在 Windows 桌面上的小伙伴。设置界面以“安静的
 | 分类 | 子页面 |
 | --- | --- |
 | 我的桌宠 | 角色与模式、桌面行为、陪伴短句 |
-| 账户与用量 | DeepSeek、Codex、消费记录 |
+| 账户与用量 | DeepSeek、Codex、Gemini、消费记录 |
 | 提醒与声音 | 对话提醒、余额提醒、声音 |
 | 气泡与文案 | 文案与样式 |
 | 关于 | 版本与更新、使用说明、素材与许可证、卸载 |
@@ -38,9 +38,9 @@ DesktopPet 是留在 Windows 桌面上的小伙伴。设置界面以“安静的
 
 ## 角色与内容
 
-角色用并排缩略图选择，显示名称与职责。短句以小鲸鱼、原版 GPT、白龙三个分段切换，独立保存并预览首条非空短句。自定义 GPT 使用原版 GPT 人设。预览只展示用户内容，不替用户改写。
+角色用三栏并排缩略图选择，显示名称与职责，窄窗口自动折为单列；Gemini 提供经典与手绘两款已做水平对称翻转的内置造型（朝向气泡与屏幕中心），切换造型附带共用额度与设置的说明及造型副标题，并在侧栏伙伴舞台、角色预览与短句预览同步星光紫舞台（`gemini-theme`：`#f2ecfb`／`#dfd3f2`）。短句以小鲸鱼、原版 GPT、白龙、Gemini 四个分段切换，独立保存并预览首条非空短句。自定义 GPT 使用原版 GPT 人设。预览只展示用户内容，不替用户改写。
 
-套餐由服务实际返回值显示，未知状态显式标注。5H、每周和其他额度窗口按时长识别；不根据套餐身份估算未提供窗口。刷新失败保留最近有效结果与时间。
+套餐由服务实际返回值显示，未知状态显式标注。5H、每周和其他额度窗口按时长识别；不根据套餐身份估算未提供窗口。刷新失败保留最近有效结果与时间。Gemini 额度在设置页采用与 Codex 统一的三栏浅色卡片、顶部状态胶囊、32px 等宽百分比、进度条及倒计时／本地重置时间；在桌宠气泡内采用左列标题与重置时间上下堆叠、右列 18–19px 百分比跨行垂直居中的双列紧凑排版，兼顾固定 192 DIP 气泡无纵向裁切与数值醒目度。
 
 当前开发分支的重置卡摘要与额度同页：气泡显示总张数及最近已知截止日期，设置页展示按到期排序的已知明细、完整时间和时区；部分数据显式标注，不把未提供当作零张。紧凑套餐与分组标题同排，百分比使用 30px。按试用反馈，摘要上方保留 12 DIP 留白、不画横线；气泡高度 192 DIP，原生点击区域与渲染布局共用数据，最长倒计时和摘要无需滚动即可看到。
 
